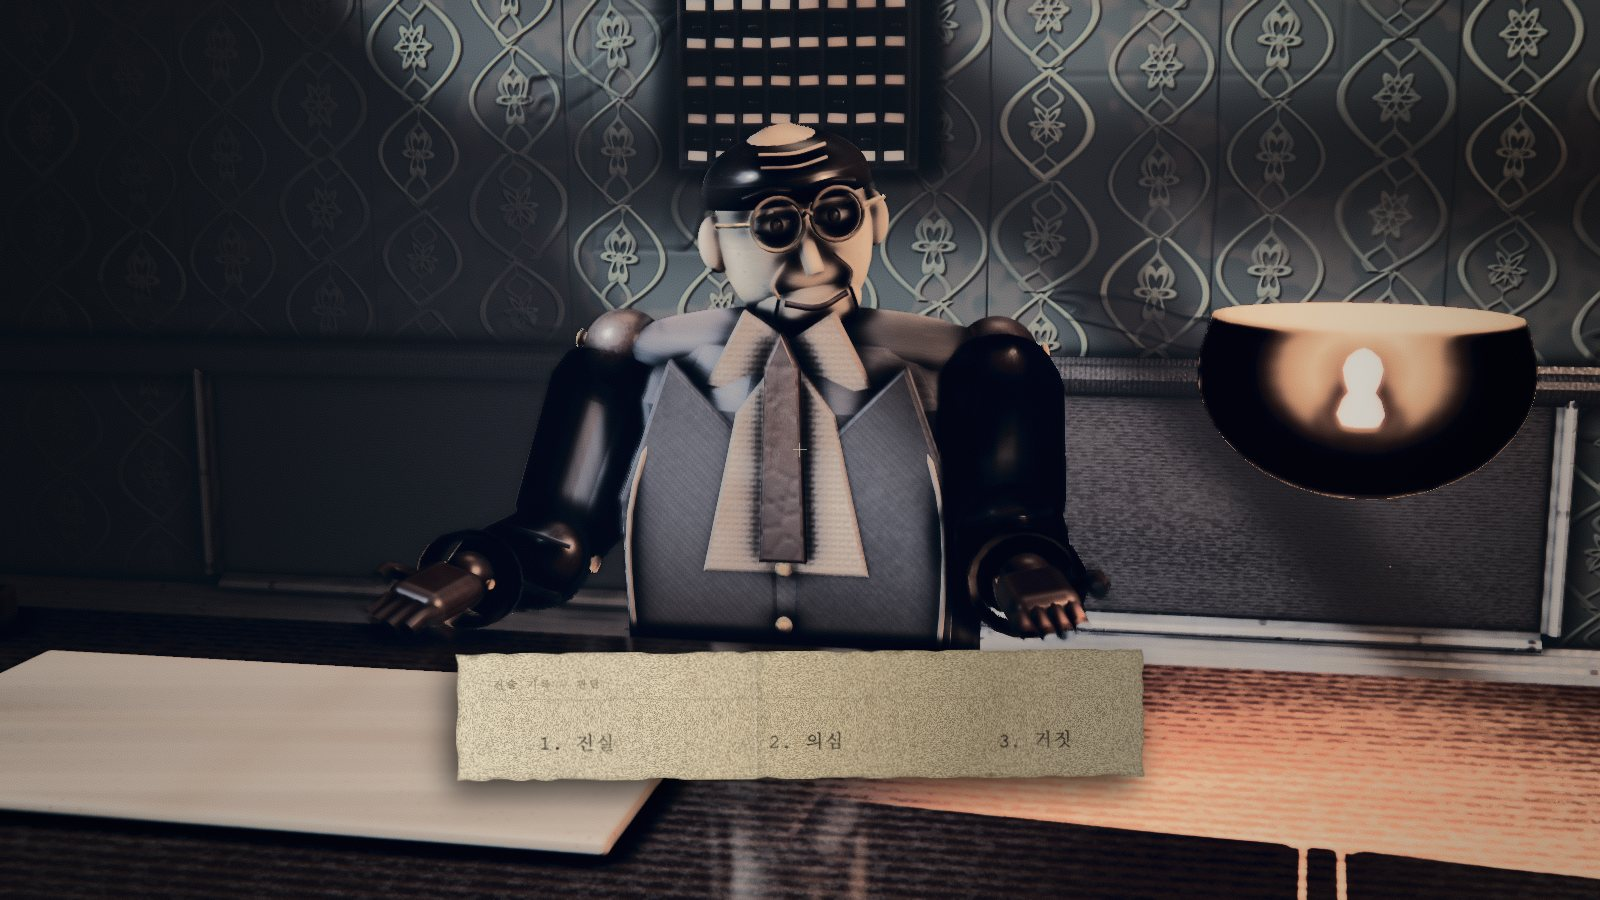
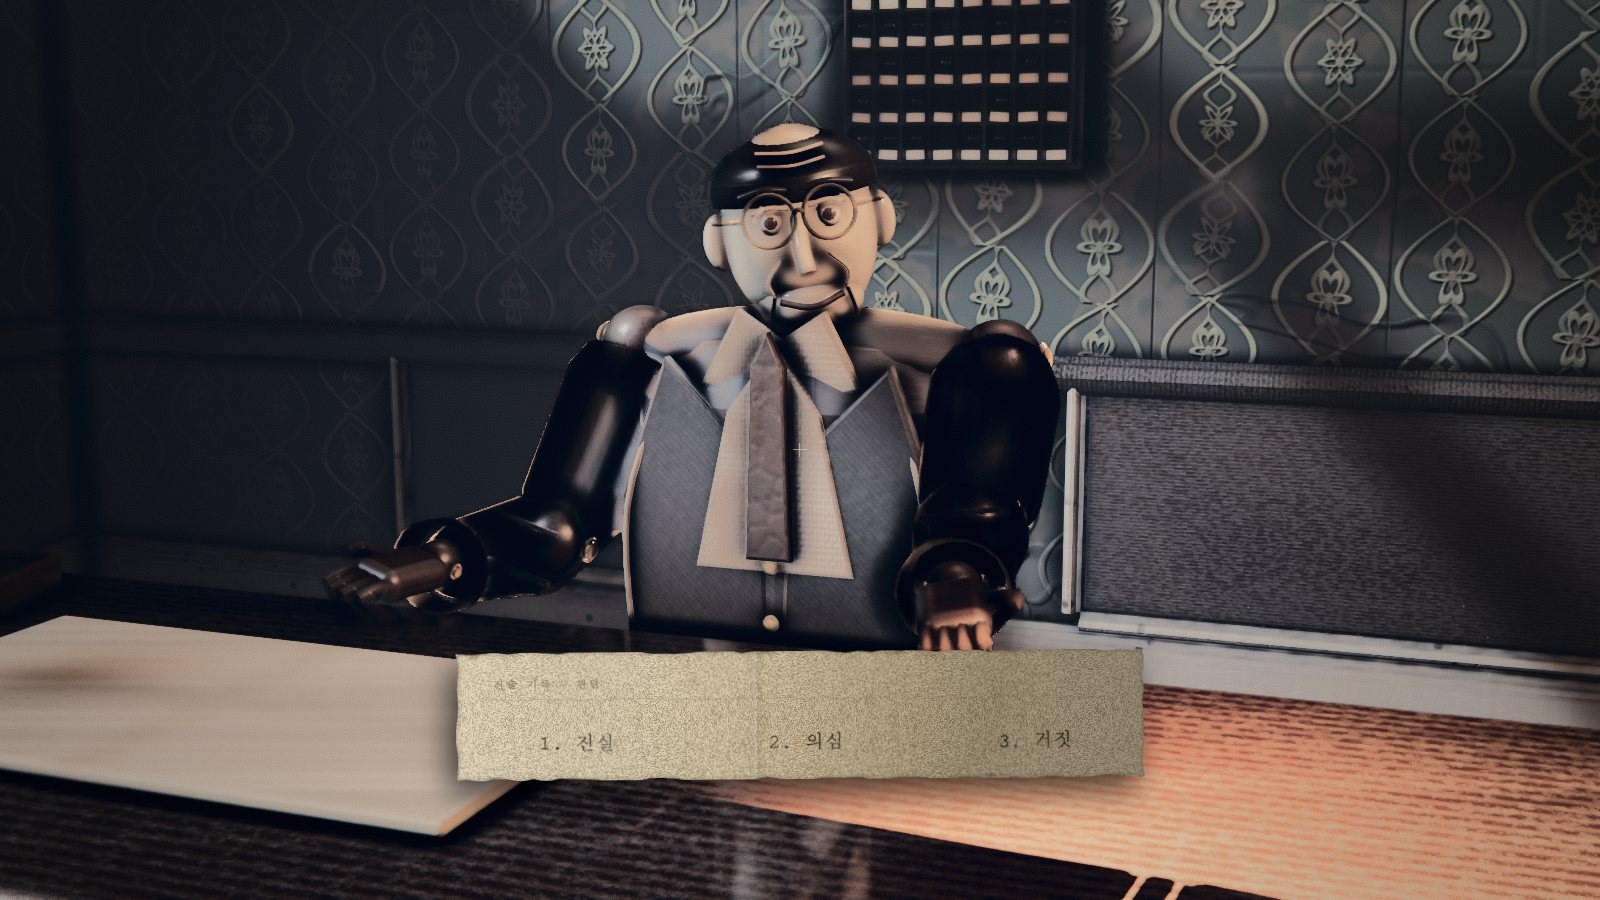
docs: 제출 프레임 최종 — 최종 배포 6b52098 라이브에서 q=high 재촬영 5장
유리 눈·시선(S-O)·개정 수칙('내민 증거는 무르지 못한다')·개고 대본이 실린 판.
probe-submit PASS(콘솔 0) + 5장 육안 판독(선택지 컷 캐치라이트·수칙 스트립 판독).

diff --git a/docs/submission/frames/frames.md b/docs/submission/frames/frames.md
@@ -1,14 +1,14 @@
 # 제출 프레임 후보 — 본선 3 · 예비 2
 
 선정 근거는 3차 재판정 `docs/reviews/fable-experience-2026-08-09-r3.md` §5다. 기존 다섯 장은
-`gh-pages 56c576d` 한 실행에서 촬영했지만, 이후 증거 규칙 고지가 구현 사실에 맞게 바뀌었다.
+`gh-pages 6b52098`(최종 배포, 번들 index-B5SaZQWL) 라이브에서 ?q=high 로 촬영했다 — 유리 눈 인물·개정 수칙·개고 대본이 실린 판이다.
 따라서 `sub-30-picker.jpg`만 2026-08-10 16:16 KST의 로컬 HEAD `1354be5` 고정 스냅샷에서
 먼저 교체했다. 실제 키 입력으로 타이틀→숙박부 수집→심문 S2 증거 지목까지 진행한
 `tools/judge-probes/probe-submit.mjs` 결과이며, 로그는
 `shots/submission-r16-candidate/probe-submit.json`에 있다. 5장 촬영·증거 지목·콘솔 에러/경고 0
 게이트는 PASS했다.
 
-> **아직 최종 세트가 아니다.** 현재 PDF의 화면 모순을 없애기 위한 DRAFT 후보이며, 소스·오디오·배포를
+> **최종 세트다(2026-08-10 23:47, 최종 배포 라이브 촬영).** 이전 문구는 유지 기록용: 소스·오디오·배포를
 > 동결한 뒤 최종 Pages를 대상으로 다섯 장을 한 실행에서 다시 촬영한다. 그래야 모든 프레임이 같은
 > 제출 빌드에서 나왔음을 증명할 수 있다.
 
